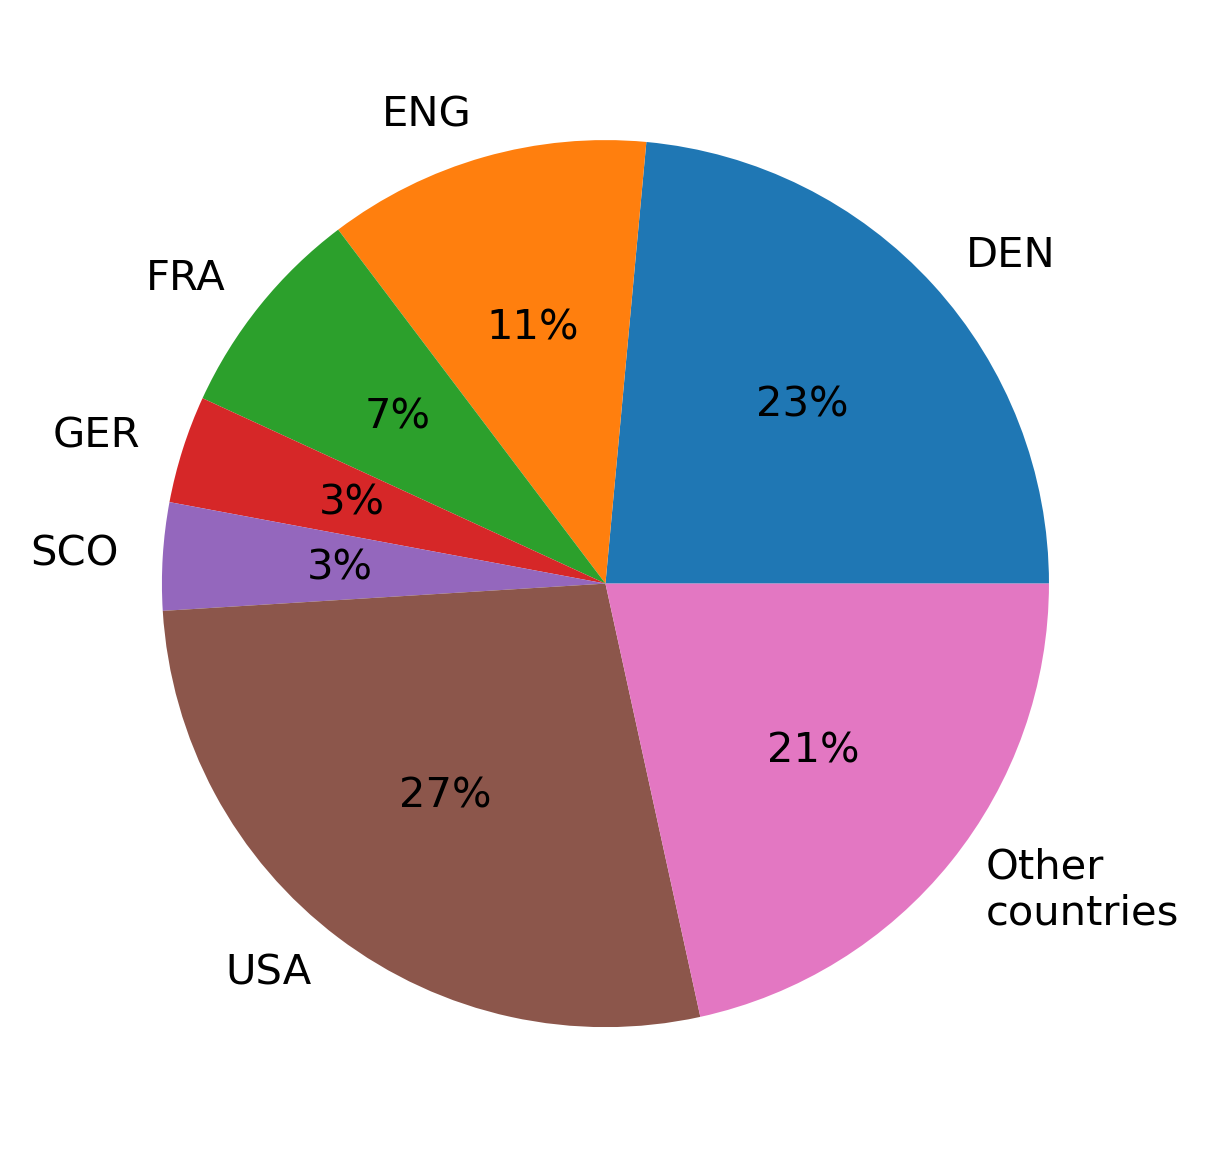
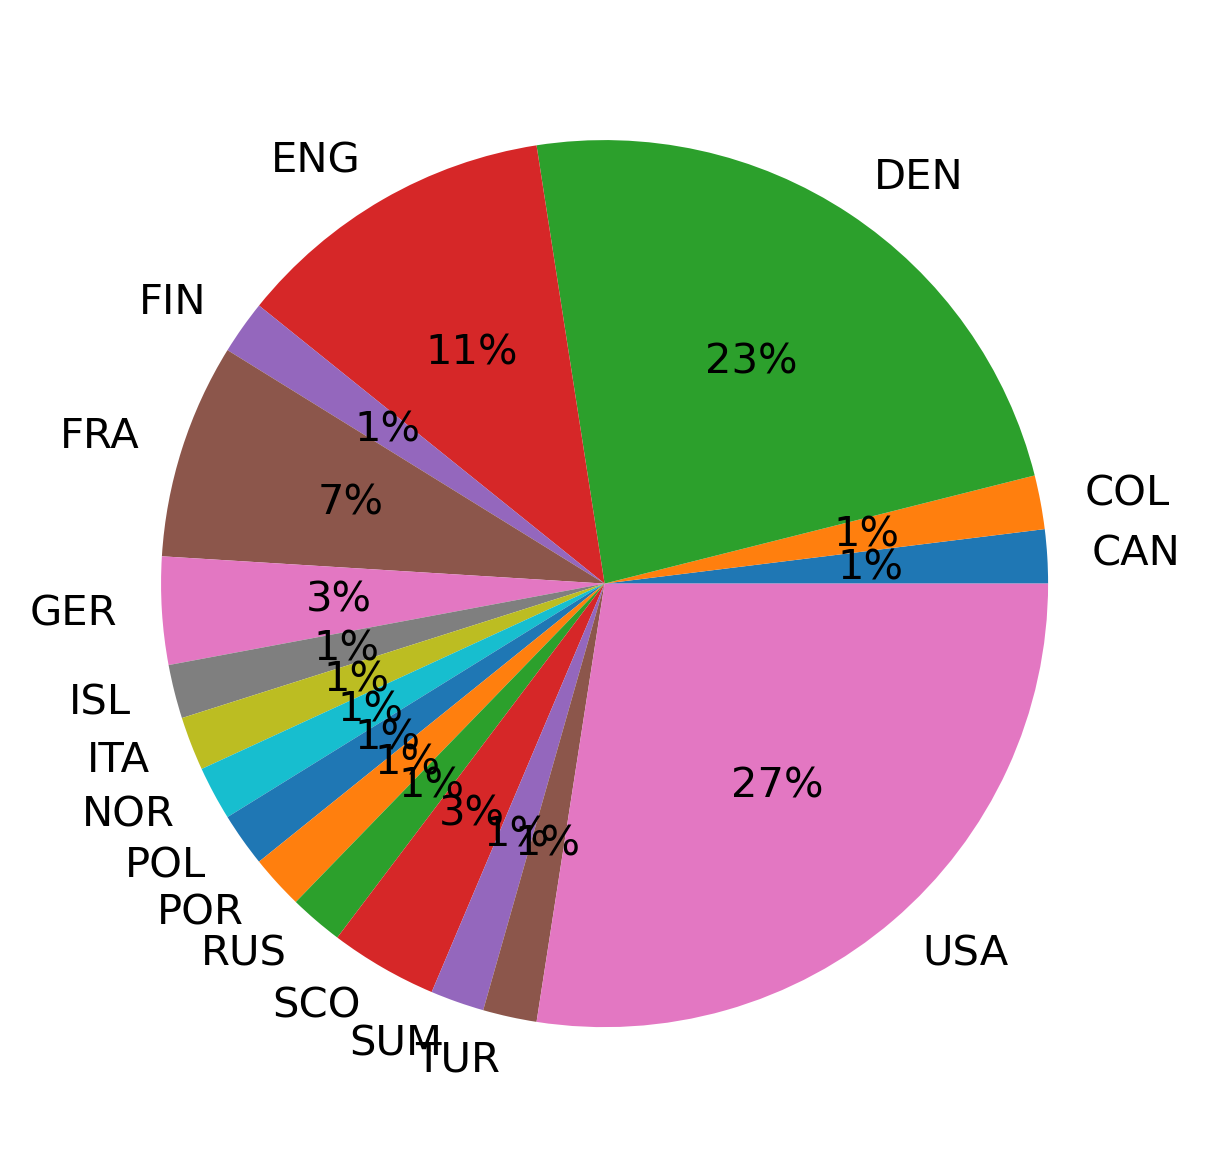
diller

diff --git a/stuff/diller.py b/stuff/diller.py
@@ -9,7 +9,7 @@ def dillit(language      = 'dk',
            page_hist     = True,
            star_hist     = True,
            country_pie   = True,
-           all_countries = False,
+           all_countries = True,
            gender_pie    = True,
            title_en_vs_dk= True,
            agree_vs_time = True,
